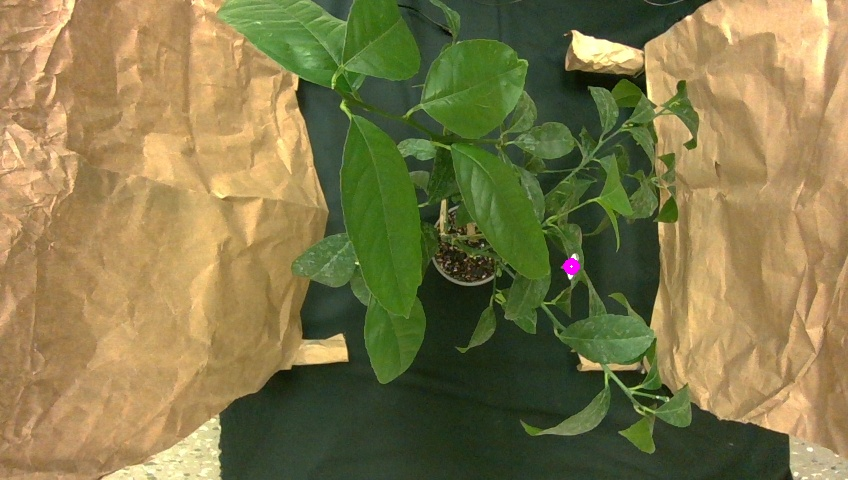
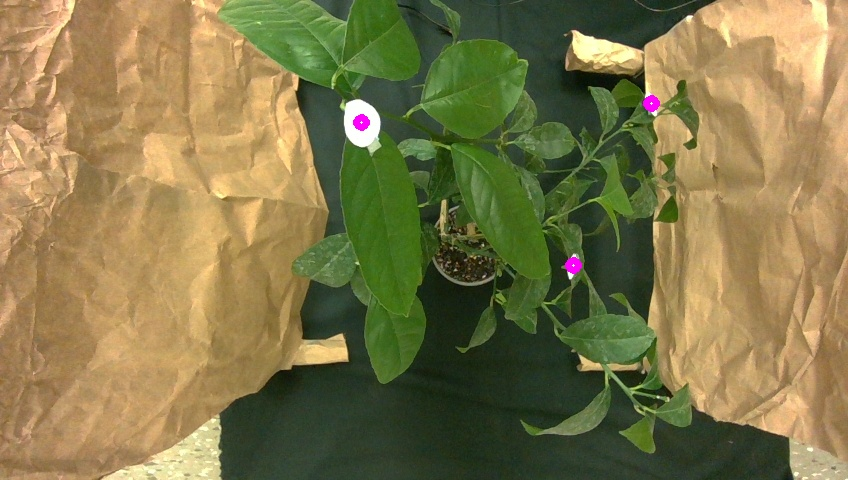
finding clean blobs

diff --git a/jetson/src/core/imaging.cpp b/jetson/src/core/imaging.cpp
@@ -100,7 +100,7 @@ cv::Mat greenMask(cv::Mat& image) {
 			double r = p->x;
 			double g = p->y;
 			double b = p->z;
-			if (g > r * 1.2 && g > b * 1.5 && g > 50) {
+			if (g > r * 1.2 && g > b * 1.75 && g > 60) {
 				thresholded.at<uchar>(i, j) = 255;
 			}
 		}
